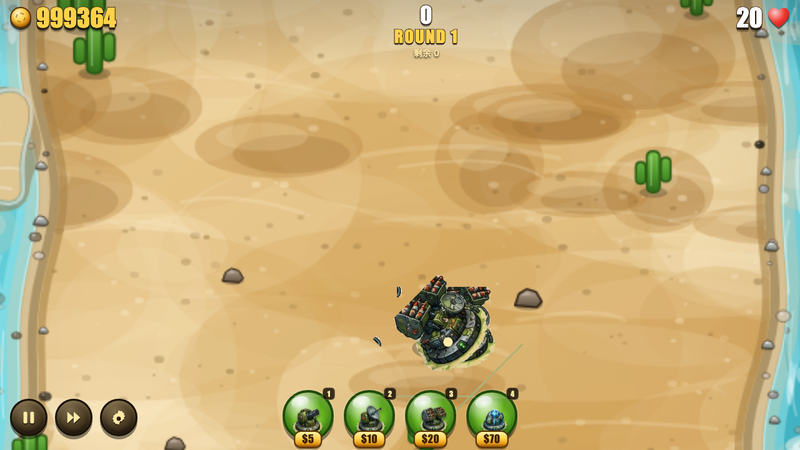
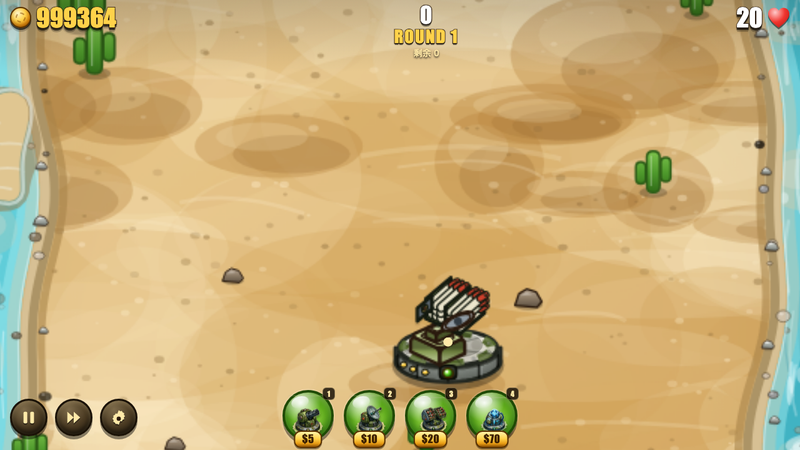
fix: 禁用设计稿 PNG 用于炮塔/敌人旋转，恢复程序化伪 3D
设计稿裁图是 3/4 透视单帧，整张 ctx.rotate() 会倒过来（炮塔 180°
底座反向、敌人上下颠倒）。本次直接禁用 useDesign 路径，让 drawTower
和 drawEnemy 走程序化伪 3D（真 3/4 投影 + 炮头分桶缓存），旋转完美。

底栏按钮（towerIcon）继续用设计稿——它是静态图标、不参与旋转，
这样美术风格的「重彩」识别度还在。

下次想重新启用设计稿，需要先把每张塔裁成 base.png + top.png 两张
（base 不转、top 单独按朝向投影），再放开 useDesign 开关。详见
art.js 里 drawTower 上方的注释。

Changed region(s): [[0.4688, 0.5911, 0.6562, 0.9022]]

diff --git a/js/art.js b/js/art.js
@@ -2011,9 +2011,13 @@ const Art = (() => {
   const TOP_OX = -TPX, TOP_OY = -TPY + BASE_CY_TOP;
 
   function drawTower(x, tw, t) {
-    /* 设计稿裁出来的 PNG：直接把整张画到格子中心，炮头用 ctx.rotate(rot) 转。
-       保持落地缩放、影子、recoil 这些体验细节跟原版同。 */
-    const useDesign = typeof Sprites !== 'undefined' && Sprites.enabled && Sprites.loaded;
+    /* 设计稿裁图是 3/4 透视单帧，整体 ctx.rotate 会倒过来。
+       等裁出 base + top 分离的两张 sprite 后再启用；目前 fallback 到程序化伪 3D。
+       美术约定见下方 AI 切换说明：
+         - 设计稿 PNG：必须 split 成 base/top，分别走不同变换
+         - 程序化路径：用真 3/4 投影（见 getTopProj），底座不转、炮头按朝向分桶
+   */
+    const useDesign = false;
 
     if (useDesign) {
       x.save();
@@ -2723,8 +2727,9 @@ const Art = (() => {
   // 逐车尺寸补偿已经搬进 buildVehicle 的 ESCALE，这里不再另存一份
 
   function drawEnemy(x, e, t) {
-    /* 设计稿裁图：直接贴，按朝向旋转。 */
-    const useDesign = typeof Sprites !== 'undefined' && Sprites.enabled && Sprites.loaded;
+    /* 设计稿裁图是 3/4 透视单帧，整张旋转会倒。
+       等把车辆拆成 hull + 旋转零件再启用；目前 fallback 到程序化伪 3D。 */
+    const useDesign = false;
     if (useDesign) {
       x.save();
       x.translate(e.x, e.y);
@@ -2785,8 +2790,9 @@ const Art = (() => {
   }
 
   function towerIcon(key, size) {
-    /* 设计稿：直接把 lvl1 裁图缩到 size×size，瞄准角写 0。 */
-    if (typeof Sprites !== 'undefined' && Sprites.loaded) {
+    /* 设计稿：直接把 lvl1 裁图缩到 size×size，瞄准角写 0。
+       静态图标不参与旋转，可以安全用设计稿。 */
+    if (typeof Sprites !== 'undefined' && Sprites.enabled && Sprites.loaded) {
       const img = Sprites.img(`${key}_t_lvl1`);
       if (img && img.complete) {
         const c = document.createElement('canvas'); c.width = size; c.height = size;
